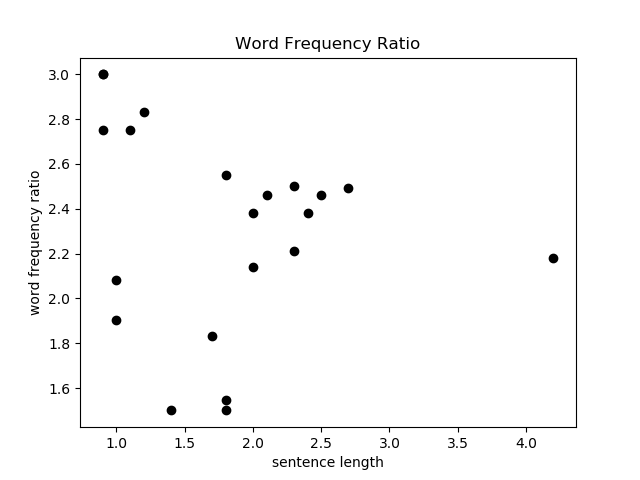
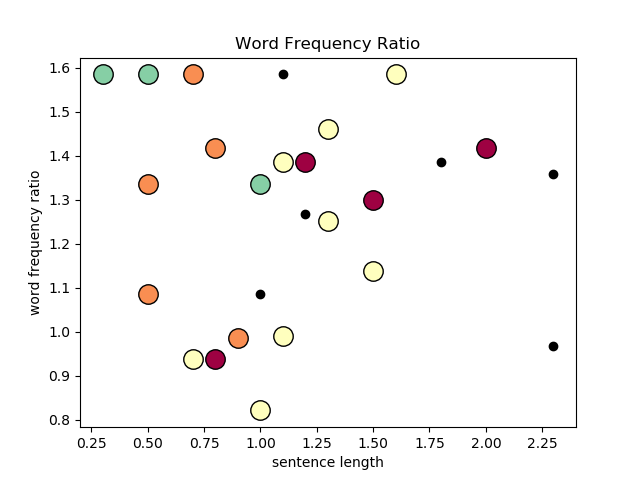
Colour coding of display

diff --git a/templates/output.html b/templates/output.html
@@ -19,13 +19,16 @@
       </div>
       {%else%}
       <div class="sec-head">
-        <h2>The Possibly plagiarized segments are:</h2>
+        <h2>The possibly plagiarized segments are highlighted:</h2>
+        <h4>(Noisy data is represented with grey colour)</h4>
       </div>
       <div class="content">
-        {% for i in range(labels|length)%} {% if labels[i]!=maxFreqCluster and
-        labels[i]!=-1%}
-        <h6>{{segments[i]}}</h6>
-        {%endif%} {%endfor %}
+        {% for i in range(labels|length)%}
+        <h6>
+          <mark style="background-color: {{colours[i]}};">{{segments[i]}}</mark>
+        </h6>
+
+        {%endfor %}
       </div>
       {%endif%}
     </div>

diff --git a/app.py b/app.py
@@ -1,16 +1,13 @@
 import re
 import numpy as np
-import pandas as pd
 import nltk
-import os
 from sklearn.cluster import DBSCAN
 from sklearn import metrics
-from sklearn.datasets import make_blobs
-from sklearn.preprocessing import StandardScaler
 from matplotlib import pyplot as plt
 from flask import Flask, render_template, request
 from nltk.corpus import stopwords
 import string
+import matplotlib.colors as mc
 app = Flask(__name__)
 app.config['SEND_FILE_MAX_AGE_DEFAULT'] = 0
 
@@ -36,7 +33,7 @@ def plagiarismDetection():
         #print(item)
         fo.close()
 
-        #Text segmentation (sentence wise, removing all trailing and leading spaces and blank and null entries)
+        #Text segmentation (sentence wise, removing all blank and null entries)
 
         segments=re.split(r'\. |\n',item)
         print(segments)
@@ -167,8 +164,10 @@ def plagiarismDetection():
         clusterFrequency= np.zeros(n_clusters,dtype='int')
         colors = [plt.cm.Spectral(each)
                 for each in np.linspace(0, 1, len(unique_labels))]
+
+        labelColour = list(zip(unique_labels, colors))
         
-        for k, col in zip(unique_labels, colors):
+        for k, col in labelColour:
             if k == -1:
                 # Black used for noise.
                 col = [0, 0, 0, 1]
@@ -227,6 +226,7 @@ def plagiarismDetection():
             plt.plot(xnc[:, 2], xnc[:, 3], 'o', markerfacecolor=tuple(col),
                     markeredgecolor='k', markersize=6)
             plt.savefig('static/fig2.png')
+            print("col:",col,tuple(col))
 
         fig0.clf()
         fig1.clf()
@@ -241,9 +241,21 @@ def plagiarismDetection():
         for i in range(len(labels)):
             if(labels[i]==-1):
                 print(segments[i])
-    print(n_clusters)
+
+        colours=[]
+        for i in range(len(labels)):
+            if labels[i]==maxFreqCluster:
+                colours.append("#FFFFFF")
+            elif labels[i] == -1:
+                colours.append("#808080")
+            else:
+                for k,col in labelColour:
+                    if labels[i]==k:
+                        colours.append(mc.to_hex(col))
+
+
     #return render_template("output.html", segments=segments, labels=labels, maxf = maxf, fig0 = '/static/fig0.png', fig1 = '/static/fig1.png', fig2 = '/static/fig2.png')
-    return render_template("output.html", segments=segments, labels=labels,maxFreqCluster=maxFreqCluster,fig0 = '/static/fig0.png', fig1 = '/static/fig1.png', fig2 = '/static/fig2.png', n_clusters = n_clusters )
+    return render_template("output.html",segments=segments, labels=labels,labelColour = labelColour, colours = colours, maxFreqCluster=maxFreqCluster,fig0 = '/static/fig0.png', fig1 = '/static/fig1.png', fig2 = '/static/fig2.png', n_clusters = n_clusters )
 if __name__ == '__main__':
     app.run()
 
